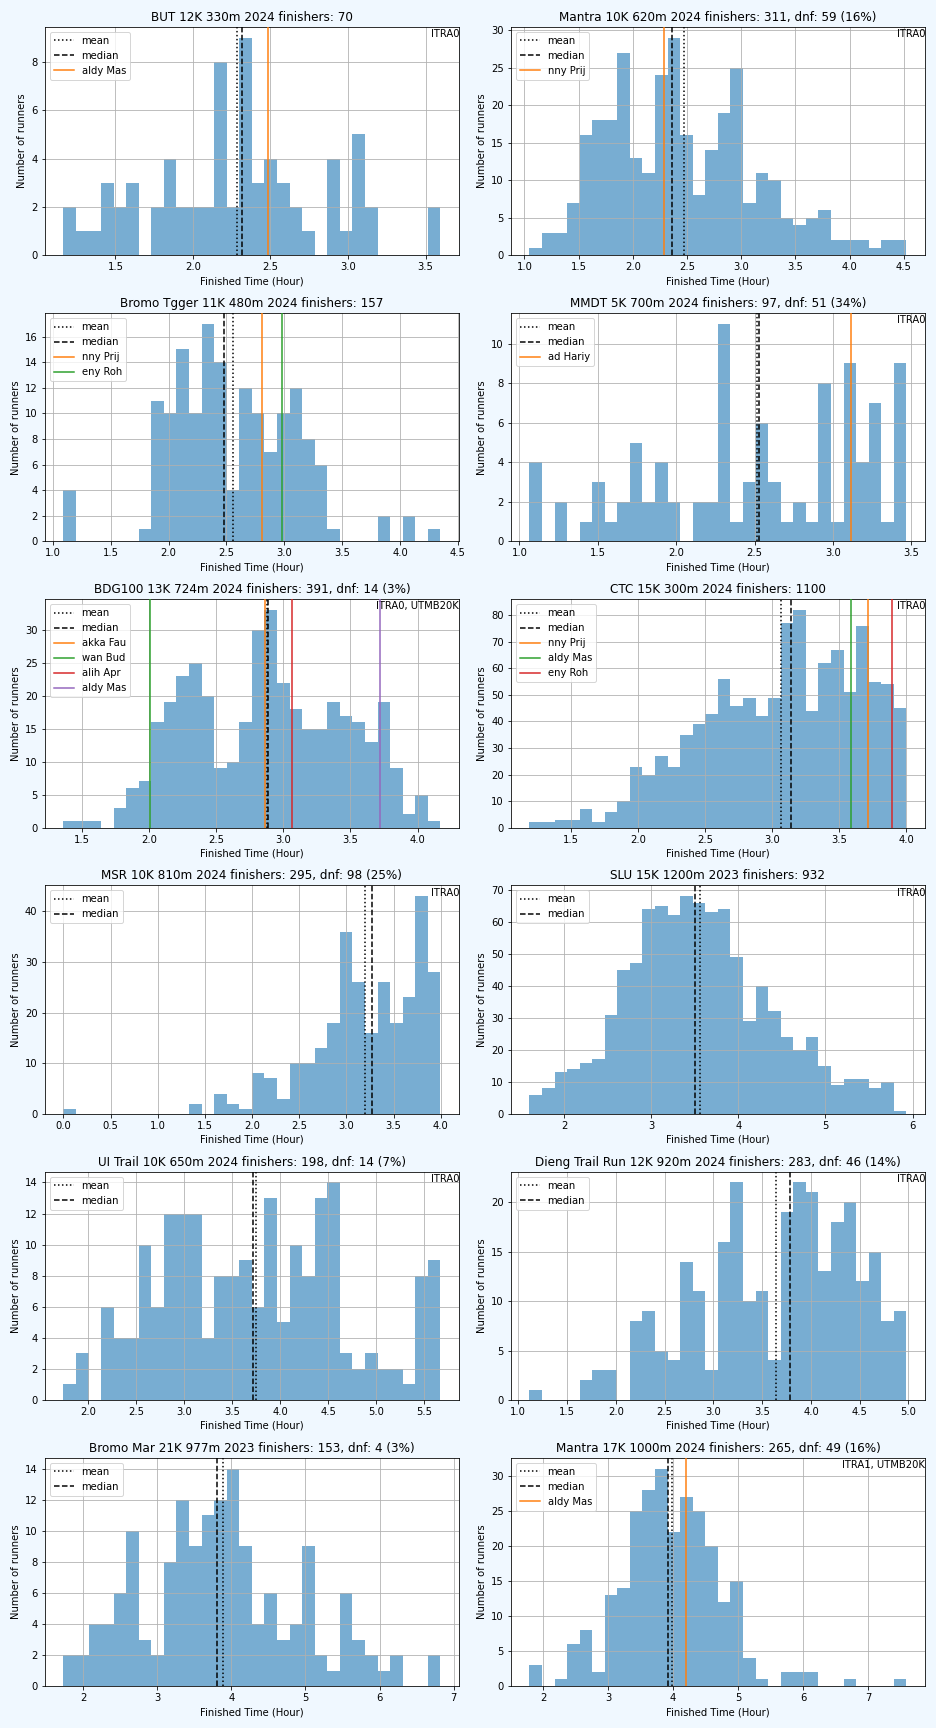
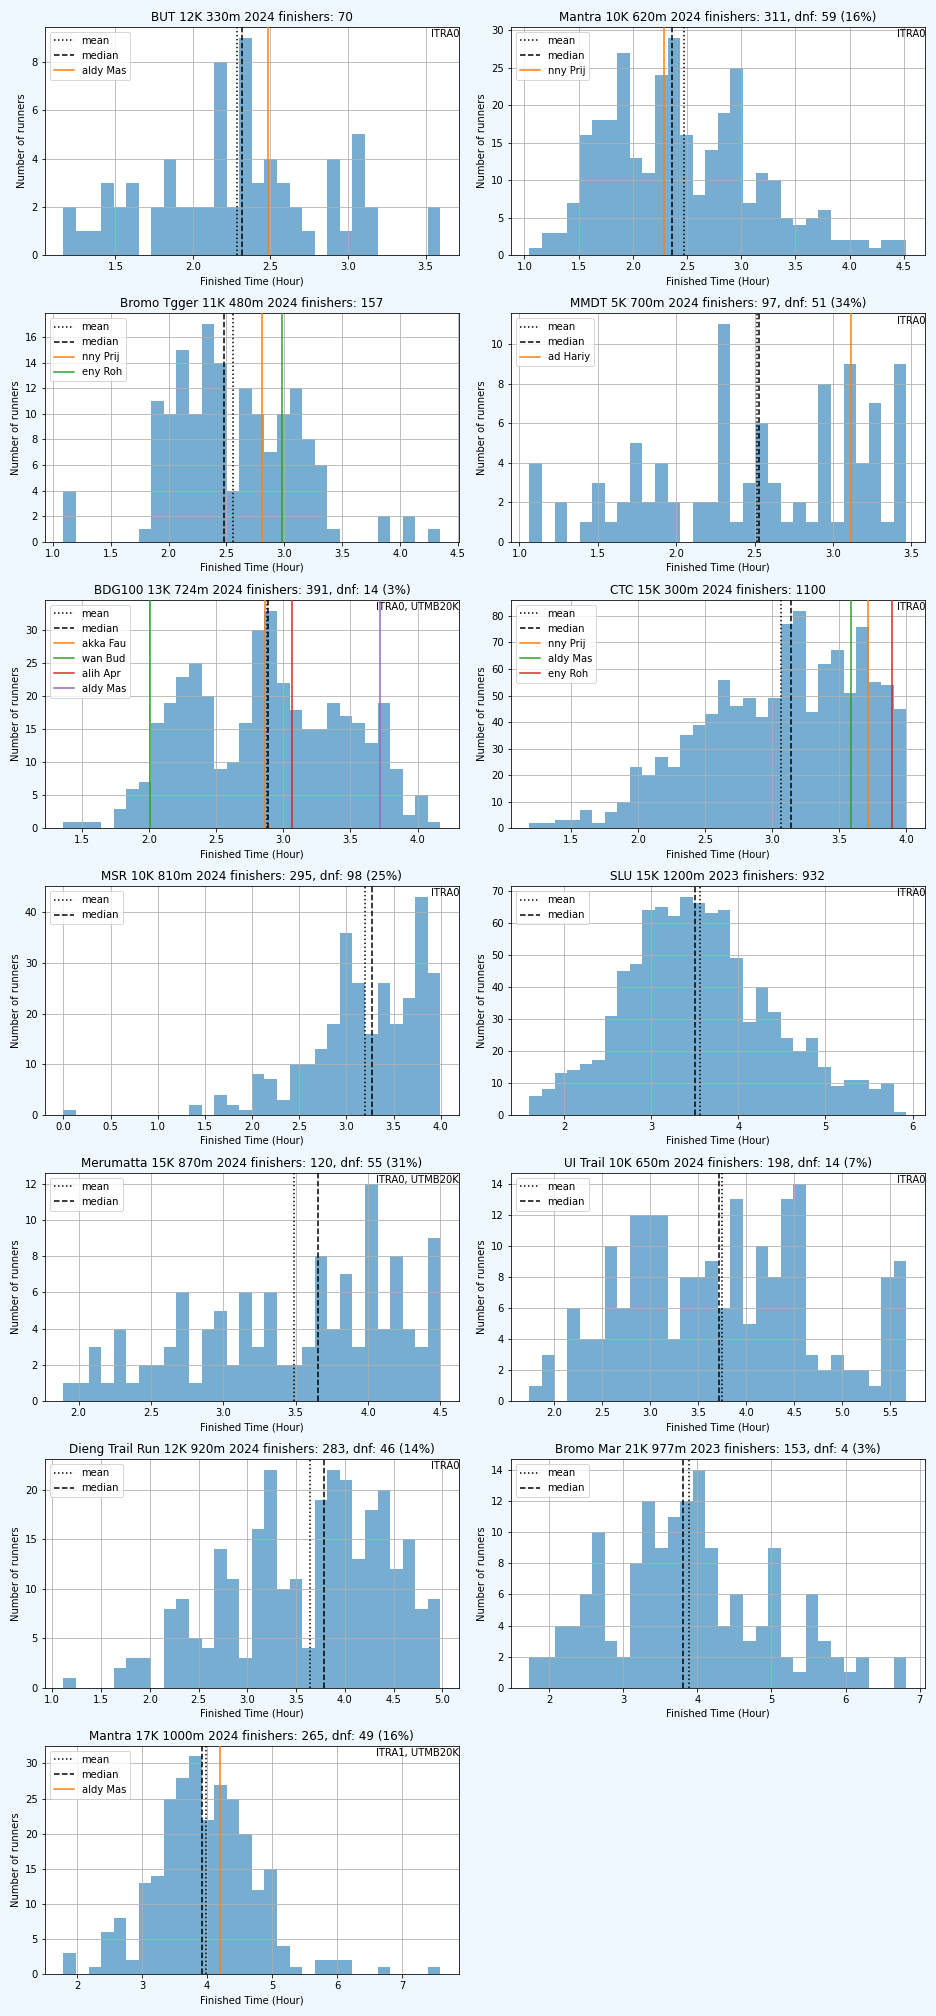
Added Merumatta 2024

diff --git a/README.md b/README.md
@@ -67,27 +67,31 @@ Event-event yg terdata:
     - 5 lomba: [5](#MSR5), [10](#MSR10), [20](#MSR20), [40](#MSR40), [50](#MSR50) km
     - diikuti sekitar 1434 peserta
     - links: [homepage](https://merbabuskyrace.com) |  [instagram](https://www.instagram.com/merbabu_skyrace/) | [ITRA](https://itra.run/Races/RaceDetails/84613/)
-13. **Mesastila 100** (MesaStila100): tanggal 2023-10-08
+13. **Merumatta Coast Trail** (Merumatta): tanggal 2024-02-25
+    - 4 lomba: [8](#Merumatta8), [15](#Merumatta15), [25](#Merumatta25), [50](#Merumatta50) km
+    - diikuti sekitar 488 peserta
+    - links: [homepage](https://merumattacoasttrail.com) |  [instagram](https://www.instagram.com/merumatta_coasttrail/) | [ITRA](https://itra.run/Races/RaceDetails/83741/)
+14. **Mesastila 100** (MesaStila100): tanggal 2023-10-08
     - 1 lomba: [21](#MesaStila10021) km
     - diikuti sekitar 73 peserta
     - links: [homepage](https://mesastila100.com) |  [instagram](https://www.instagram.com/mesastila100/) | [ITRA](https://itra.run/Races/RaceDetails/82926/)
-14. **Rinjani 100** (Rinjani100): tanggal 2024-05-26
+15. **Rinjani 100** (Rinjani100): tanggal 2024-05-26
     - 5 lomba: [27](#Rinjani10027), [36](#Rinjani10036), [60](#Rinjani10060), [100](#Rinjani100100), [162](#Rinjani100162) km
     - diikuti sekitar 814 peserta
     - links: [homepage](https://fonesport.id/rinjani100) |  [instagram](https://www.instagram.com/rinjani100.official/) | [ITRA](https://itra.run/Races/RaceDetails/91507/)
-15. **Siksorogo Lawu Ultra** (SLU): tanggal 2023-12-03
+16. **Siksorogo Lawu Ultra** (SLU): tanggal 2023-12-03
     - 5 lomba: [7](#SLU7), [15](#SLU15), [30](#SLU30), [50](#SLU50), [80](#SLU80) km
     - diikuti sekitar 2604 peserta
     - links: [homepage](https://siksorogo.id) |  [instagram](https://www.instagram.com/siksorogolawuultra/) | [ITRA](https://itra.run/Races/RaceDetails/88372/)
-16. **Sindoro Sumbing Challenge** (SSC): tanggal 2024-05-05
+17. **Sindoro Sumbing Challenge** (SSC): tanggal 2024-05-05
     - 3 lomba: [20](#SSC20), [20](#SSC20), [35](#SSC35) km
     - diikuti sekitar 208 peserta
     - links: [homepage](https://www.sindorosumbingchallenge.com/) |  [instagram](https://www.instagram.com/sindoro_sumbing_challenge/) | [ITRA](https://itra.run/Races/RaceDetails/89387/)
-17. **UI Trail Race** (UI Trail): tanggal 2024-08-11
+18. **UI Trail Race** (UI Trail): tanggal 2024-08-11
     - 5 lomba: [5](#UITrail5), [10](#UITrail10), [20](#UITrail20), [40](#UITrail40), [80](#UITrail80) km
     - diikuti sekitar 660 peserta
     - links: [homepage](https://uitrailrun.com) |  [instagram](https://www.instagram.com/uitrailrace/) | [ITRA](https://itra.run/Races/RaceDetails/94755/)
-18. **Vertical Telomoyo** (V. Telomoyo): tanggal 2023-10-01
+19. **Vertical Telomoyo** (V. Telomoyo): tanggal 2023-10-01
     - 2 lomba: [7](#VTelomoyo7), [27](#VTelomoyo27) km
     - diikuti sekitar 132 peserta
     - links: [homepage](https://verticaltelomoyo.com) |  [instagram](https://www.instagram.com/vertical_telomoyo/) | [ITRA](https://itra.run/Races/RaceDetails/85282/)
@@ -106,6 +110,7 @@ Enjoy dan fork/PR ya.
 | <A name="UITrail5"></A> [UI Trail](https://www.instagram.com/uitrailrace/) | 5 | 180 | 208 | 1.2 / 2.4 | 1 (0%) |  | 3 | 130 |
 | <A name="BromoMar10"></A> [Bromo Mar](https://www.instagram.com/bromomarathon/) | 10 | 426 | 192 | 1.7 / 2.7 | 5 (3%) |  |  |  |
 | <A name="SLU7"></A> [SLU](https://www.instagram.com/siksorogolawuultra/) | 7 | 400 | 723 | 1.7 / 3.9 |      |  |  |  |
+| <A name="Merumatta8"></A> [Merumatta](https://www.instagram.com/merumatta_coasttrail/) | 8 | 380 | 119 | 1.8 / 2.5 | 51 (30%) |  <img src="images/th-ITRA0.png" height="16"> | 5 | 190 |
 | <A name="DiengCaldera10"></A> [Dieng Caldera](https://www.instagram.com/diengcalderarace/) | 10 | 495 | 246 | 1.9 / 2.8 |      |  <img src="images/th-ITRA0.png" height="16"> | 5 | 130 |
 
 ![stat](images/0-2h.png "Statistik")
@@ -122,6 +127,7 @@ Enjoy dan fork/PR ya.
 | <A name="CTC15"></A> [CTC](https://www.instagram.com/ctc.ultra/) | 15 | 300 | 1100 | 3.1 / 4.0 |      |  <img src="images/th-ITRA0.png" height="16"> | 2 | 160 |
 | <A name="MSR10"></A> [MSR](https://www.instagram.com/merbabu_skyrace/) | 10 | 810 | 295 | 3.3 / 4.0 | 98 (25%) |  <img src="images/th-ITRA0.png" height="16"> | 9 | 210 |
 | <A name="SLU15"></A> [SLU](https://www.instagram.com/siksorogolawuultra/) | 15 | 1200 | 932 | 3.5 / 5.9 |      |  <img src="images/th-ITRA0.png" height="16"> | 6 |  |
+| <A name="Merumatta15"></A> [Merumatta](https://www.instagram.com/merumatta_coasttrail/) | 15 | 870 | 120 | 3.7 / 4.5 | 55 (31%) |  <img src="images/th-ITRA0.png" height="16"> <img src="images/th-UTMB20K.png" height="16"> | 5 | 240 |
 | <A name="UITrail10"></A> [UI Trail](https://www.instagram.com/uitrailrace/) | 10 | 650 | 198 | 3.7 / 5.7 | 14 (7%) |  <img src="images/th-ITRA0.png" height="16"> | 6 | 130 |
 | <A name="DiengTrailRun12"></A> [Dieng Trail Run](https://www.instagram.com/diengtrailrun/) | 12 | 920 | 283 | 3.8 / 5.0 | 46 (14%) |  <img src="images/th-ITRA0.png" height="16"> | 6 | 190 |
 | <A name="BromoMar21"></A> [Bromo Mar](https://www.instagram.com/bromomarathon/) | 21 | 977 | 153 | 3.8 / 6.8 | 4 (3%) |  |  |  |
@@ -140,6 +146,7 @@ Enjoy dan fork/PR ya.
 | <A name="MesaStila10021"></A> [MesaStila100](https://www.instagram.com/mesastila100/) | 21 | 1230 | 72 | 5.4 / 8.6 | 1 (1%) |  <img src="images/th-ITRA0.png" height="16"> | 6 | 220 |
 | <A name="DiengCaldera21"></A> [Dieng Caldera](https://www.instagram.com/diengcalderarace/) | 21 | 1185 | 264 | 5.8 / 7.9 | 4 (1%) |  <img src="images/th-ITRA1.png" height="16"> <img src="images/th-UTMB20K.png" height="16"> | 6 | 190 |
 | <A name="BDG10027"></A> [BDG100](https://www.instagram.com/bdg100_official/) | 27 | 1265 | 263 | 5.9 / 8.0 | 11 (4%) |  <img src="images/th-ITRA1.png" height="16"> <img src="images/th-UTMB20K.png" height="16"> | 5 | 10 |
+| <A name="Merumatta25"></A> [Merumatta](https://www.instagram.com/merumatta_coasttrail/) | 25 | 1620 | 86 | 6.0 / 7.4 | 33 (28%) |  <img src="images/th-ITRA1.png" height="16"> <img src="images/th-UTMB20K.png" height="16"> | 7 | 230 |
 
 ![stat](images/4-6h.png "Statistik")
 
@@ -178,6 +185,7 @@ Enjoy dan fork/PR ya.
 
 | Event | Jarak (km) | Eg (m) | Finish ers | Med / Max (jam) | DNF (Rate) | Kualif. | Mtn Lvl | Fns Lvl |
 |-------|------------|--------|-----------|-----------------|------------|---------|---------|---------|
+| <A name="Merumatta50"></A> [Merumatta](https://www.instagram.com/merumatta_coasttrail/) | 50 | 2830 | 14 | 12.2 / 14.5 | 10 (42%) |  <img src="images/th-ITRA2.png" height="16"> <img src="images/th-UTMB50K.png" height="16"> | 7 | 250 |
 | <A name="Mantra38"></A> [Mantra](https://www.instagram.com/mantra116.id/) | 38 | 2750 | 184 | 12.5 / 15.0 | 54 (23%) |  <img src="images/th-ITRA2.png" height="16"> <img src="images/th-UTMB50K.png" height="16"> | 9 | 220 |
 | <A name="SSC35"></A> [SSC](https://www.instagram.com/sindoro_sumbing_challenge/) | 35 | 4046 | 47 | 12.7 / 18.4 | 11 (19%) |  <img src="images/th-ITRA3.png" height="16"> | 12 | 180 |
 | <A name="Rinjani10036"></A> [Rinjani100](https://www.instagram.com/rinjani100.official/) | 36 | 3179 | 322 | 12.8 / 15.0 | 118 (27%) |  <img src="images/th-ITRA2.png" height="16"> <img src="images/th-UTMB50K.png" height="16"> | 11 |  |
